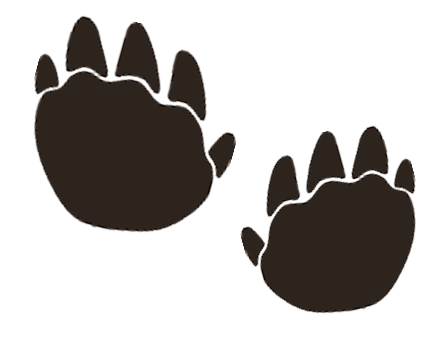
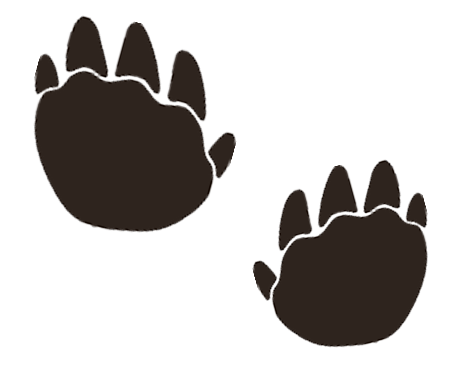
decorations fix

diff --git a/style.css b/style.css
@@ -401,8 +401,8 @@ summary::marker {
     max-width: 190px;
     height: auto;
     display: block;
-    bottom: 31rem;
-    right: 378px;
+    bottom: 31.5rem;
+    right: 70px;
     transform: rotate(-7deg);
     position: absolute;
   }
